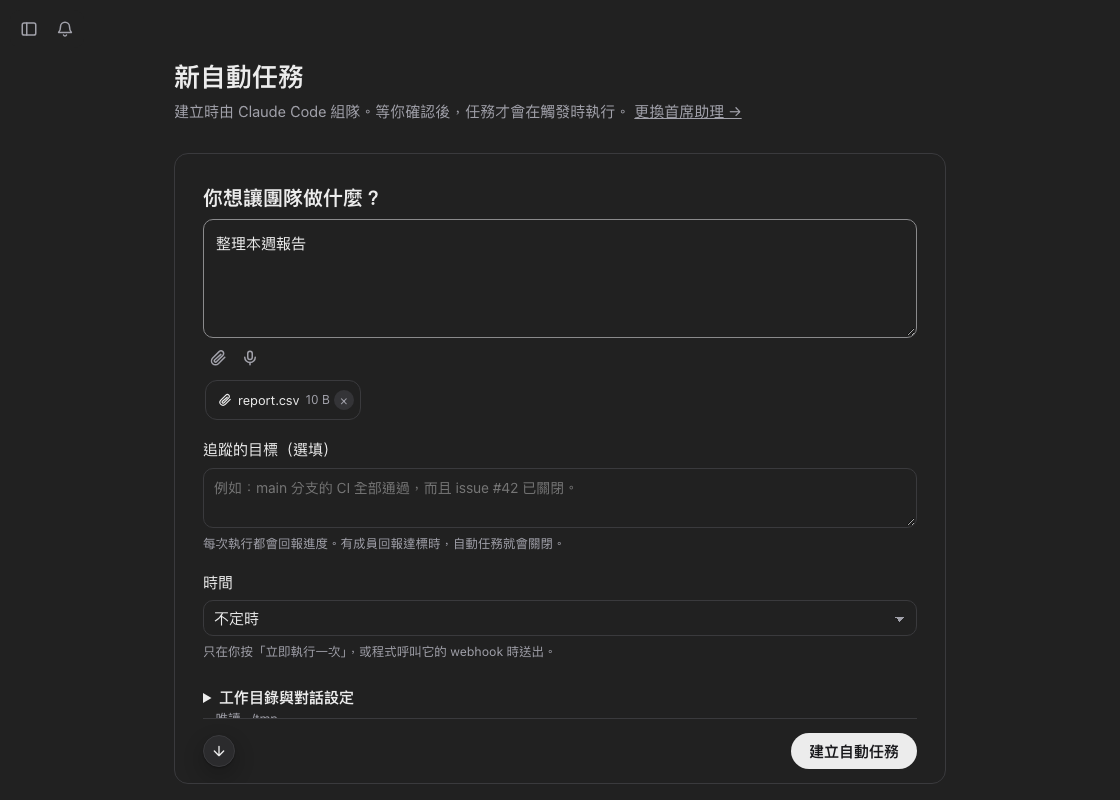
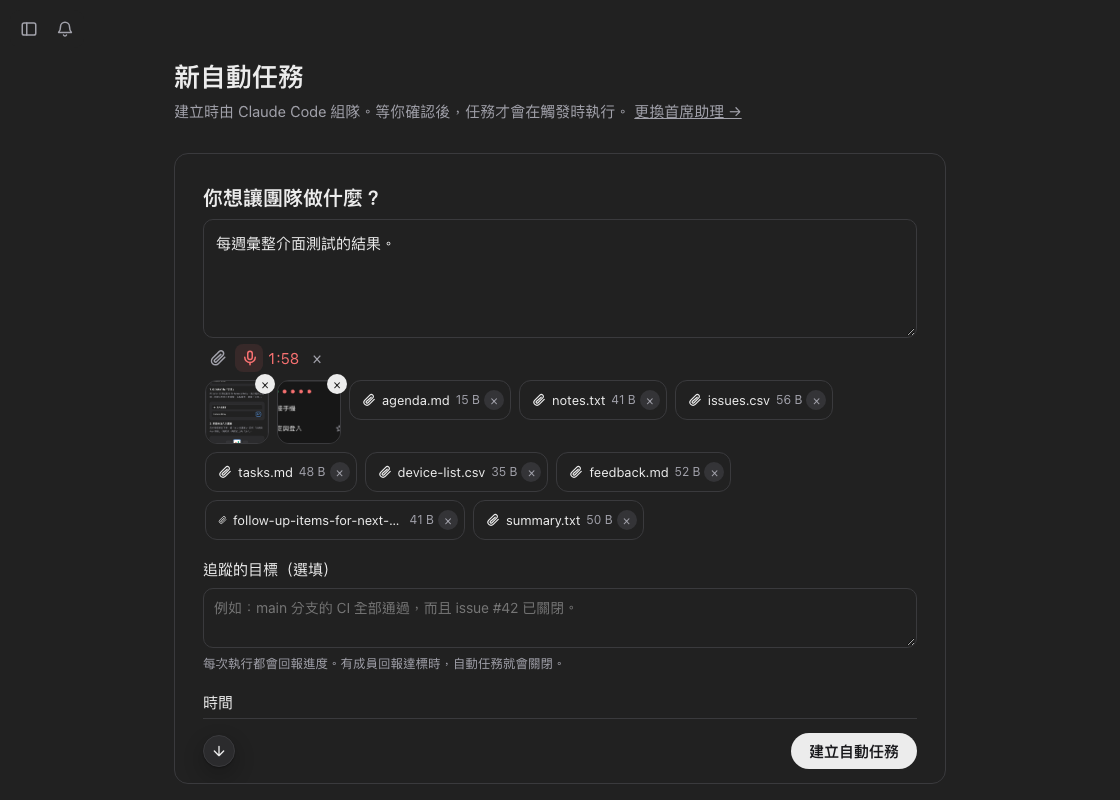
Show both creation forms with ten attachments and a nearly full recording
- Capture the desktop and phone layouts after 118 seconds of recording with ten files, including image thumbnails.
- Update the guides to describe attachment wrapping and automatic transcription at the two-minute limit.

diff --git a/docs/user-guide.md b/docs/user-guide.md
@@ -417,9 +417,9 @@ To browse AgentsView from your phone too, see [Use it from your phone](remote-ac
 
 ## 3. Start a chat — New chat and templates
 
-Click **Start a new chat** on the home page, even with the sidebar closed, or choose **New chat** in the sidebar. Type your question or use the microphone to dictate it. **Send question** becomes available once the field contains text. Selected files appear below the paperclip and microphone. While dictating, click the microphone again to transcribe or use the × beside the timer to cancel. Sending opens the chat and starts team design. Under **Workspace and chat settings**, you can change the working folders, file permission, approval policy and title. The [lead review](#lead-review) checkbox below the team confirmation choices starts checked. **Once the team is ready** shows whether the team will wait for your confirmation or answer right away. The next chat remembers that choice. **Send question** stays at the bottom of the card. The team choices and review setting scroll with the other fields. A down arrow appears when there is more below. Click it to scroll. The question, attachments, title and settings stay in this window while you visit other pages. If creation finishes while you are in Settings, **Open created chat** opens the result. If it fails, return to the draft to see the error and retry. **Change the lead agent** opens Settings, where **Return to new chat draft** takes you back. Open **Manage team templates** to inspect or edit a template.
+Click **Start a new chat** on the home page, even with the sidebar closed, or choose **New chat** in the sidebar. Type your question or use the microphone to dictate it. **Send question** becomes available once the field contains text. You can attach up to 10 files. They wrap onto new lines below the paperclip and microphone. While dictating, click the microphone again to transcribe or use the × beside the timer to cancel. At two minutes, the recording ends and transcription starts automatically. Sending opens the chat and starts team design. Under **Workspace and chat settings**, you can change the working folders, file permission, approval policy and title. The [lead review](#lead-review) checkbox below the team confirmation choices starts checked. **Once the team is ready** shows whether the team will wait for your confirmation or answer right away. The next chat remembers that choice. **Send question** stays at the bottom of the card. The team choices and review setting scroll with the other fields. A down arrow appears when there is more below. Click it to scroll. The question, attachments, title and settings stay in this window while you visit other pages. If creation finishes while you are in Settings, **Open created chat** opens the result. If it fails, return to the draft to see the error and retry. **Change the lead agent** opens Settings, where **Return to new chat draft** takes you back. Open **Manage team templates** to inspect or edit a template.
 
-![Dictating a new question on a phone with an agenda attached below the controls](media/new-chat-en.png)
+![New chat on a phone with 10 attachments below the controls and 1:58 on the recording timer](media/new-chat-en.png)
 
 You don't pick a team for the chat: the lead agent chooses one for each question (see [Auto team](#auto-team)), from the [templates](#templates) on this page, where you design teams.
 
@@ -619,7 +619,7 @@ To have the lead agent make the change, say what you want in **Ask the lead agen
 
 To start from an automation instead of a chat, click **New automation**, the button with a lightning bolt beside **New chat** in the sidebar (its text is **Automation** in English, where the whole name does not fit). Type or dictate what the team should do. Pick files with the paperclip, paste them or drag them into the field. They appear below the paperclip and microphone. Every run gets its own copy, including runs that open a new chat. Add or remove files in the chat’s **Automation** settings to change what future runs receive. Optionally add a **Goal to track**, then choose **When** it runs. Open **Webhooks and run settings** to create a webhook, start a new chat each time, or change unattended and missed-run behavior. **Workspace and chat settings** shows the working directories, permissions and optional title. The [lead review](#lead-review) checkbox is visible below the team confirmation choices. Visiting lead or connector settings keeps your draft while the app is open. If creation finishes there, **Open created automation** opens its chat and any newly created webhook. Above **Once the team is ready**, expand **Manage team templates** to edit the same templates available in New chat. Choose whether to review the team or accept it automatically, then click **Create automation**. Its chat opens for team design. The task runs when triggered. **Create automation** stays at the bottom of the card while the settings above it scroll, including team confirmation and lead review. A time that comes due while the team is being designed or waits for you is tried again for up to 30 minutes, then skipped. If the design was stopped, the automation window offers **Have the lead agent design the team**.
 
-![New automation with a dictated or typed message and an attached report](media/new-automation-en.png)
+![New automation on a phone with 10 attachments and the microphone recording at 1:58](media/new-automation-en.png)
 
 - **Message** — what to send. As usual, when you @mention members, only they answer; a name that is not on the team reaches nobody (the members the message does @mention answer, or with none, the whole team) — the window warns about it as you type, and **Team settings** warns when you rename or remove a member the message @mentions. With **New automation** there is no team yet: the lead agent names the members after the names the message @mentions (for example `@Reviewer`), and a team's card warns before you confirm it if one is missing (also for a later question's team, in a chat with an automation).
 - **When** — **No set times** (what a new automation starts with): only **Run once now** and the webhook (below) send it, so it has nothing to switch on or off and no missed times — for a task you start yourself now and then, or one a program starts. Or **Once** (a date and time), **Every day** or **Every week** (pick the days) at a time, or **Every few hours** (counted from when you set its times; changing only the message keeps the rhythm). On the creation page, choose a trigger from the **When** menu. In the chat drawer the choices share a row you can swipe on a phone. The next three times and the time zone are shown before you save; times are in the automation's time zone, and on a device in another zone you can switch it to that device's. Or **When something happens**, under **What to wait for**: **A new mail arrives** in a mail account from Settings → Tool library (a folder, the inbox by default, and optionally words the sender and the subject contain, in any case). Harness Relay checks it itself every 2 minutes, with no address or token to set up, and when the mail server can say at once that mail arrived (IMAP IDLE: Gmail, iCloud and most can), it listens and checks right then, so a mail starts it within seconds (the automation window then says the server tells it when mail arrives); the first check only notes the mail already there, and mail that arrives after it starts the automation, once for each check however many came, with their senders, subjects, dates and first lines in a block the chat shows as **The new mail** and the agents read as data (members with the Mail tools can read a mail whole). Mail that came while Harness Relay was closed is found at its first check after it opens; old mail moved into the folder (from an archive, say) does not count as new. While the automation is off, nothing is checked, and turning it on starts afresh. While the team replies, the message waits in the queue as any automation's does; when the team cannot take it at all (it waits for your answer, an earlier automation message is still queued, another chat writes in the folder), the mail waits for a later check, which sends it with what came since. **Check now** in the automation window checks at once and says what it found; while the automation is off, it only notes the mail there (to try the account), and starts no run. The other things it can wait for, checked the same way (the first check only notes what is there, and one check starts one run however many it found): **An event is about to begin**, in a calendar from Settings (with a password, or one you signed in to), a number of minutes before each event begins (each time of a recurring one on its own; all-day events, cancelled ones and those in a time zone this computer does not know are left out), optionally only those whose title has some words, the run's message listing each event's title, times, place and attendees; an event that began while the checks failed or the team could not take it (within the hour) is still sent, marked as begun. A CalDAV server that does not expand recurring events gives Harness Relay their first time only, so their later times do not start the automation. **A pull request or a failed CI run on GitHub**, in a repository (`owner/name`), through your own GitHub CLI (`gh`, signed in with `gh auth login`): a pull request opened, or a CI run that failed, timed out or could not start (optionally on one branch; a run that fails again when re-run counts too), listed by number or run, title and link. And **A file appears or changes in the working directory**, a pattern such as `reports/*.csv` (`*` within a folder, `**` across folders, `?` one character, any case; `.git` is left out, and so are package and build folders such as `node_modules` unless the pattern names them), the run's message listing each file's path, size and time, never its contents; a file is listed once it has not changed for 30 seconds, so one still being written starts it once. Files changed while the team works in the folder count as the team's own: they never start the automation again (nor does what another chat writes there meanwhile); a file a check found before the team started, or one that came while the automation waited for the team (for your answer, say), is still sent afterwards. Only the working directory it watches counts, not the conversation's other ones (unless they are in the same git repository). Files a run wrote just before Harness Relay stopped are not told apart: the first check after it starts may list them. A run that wrote in the folder between two checks (even a short one you started) makes the next check only record too, so a file of yours that arrived in the same couple of minutes counts as the team's. In a large folder, give the pattern the folder to look in (`reports/*.csv` rather than `**/*.csv`). To wait for more than one thing (a new mail from the bank, or a file in `invoices/`), click **Add another** under them (up to 5; **Remove** takes one away): any of them starts the automation. Each is checked on its own, and each that finds something sends the message with what it found, so two at once make two messages (the second waits in the queue); the same thing twice (the same mail folder, the inbox in any letter case included, the same pattern) cannot be saved. The automation window then shows how each one's checks go, a line each, and the sidebar says them all, joined with "or". When a check fails (a wrong password, a server down, gh not signed in), the automation says why, the clock in the sidebar shows it, and the checks come slower until one works.

diff --git a/docs/developer-guide.md b/docs/developer-guide.md
@@ -949,7 +949,7 @@ Current specs (each scenario in [`e2e/README.md`](../e2e/README.md)):
 - `e2e/specs/signin.spec.ts` — the sign-in page, a wrong code, signing in with a code, a one-time sign-in link (a used-up one shows its error), a link opened in a tab that shows the sign-in page already, a link's error gone after signing in with a code and being signed out, a link opened in a tab signed in already that keeps it signed in while requests sent with the old key are still on their way (their answers, "signed out", reach the page together with the sign-in's; never a sign-out), a tab showing the sign-in page following a sign-in in another tab of the browser, a link opened in another tab keeping every tab signed in while the first has requests on their way, a tab still on its first check following another tab's sign-in (its first answer out of date by then), a sign-in that gets no answer given up after 30 seconds with a message (on the page's clock), signing out in Settings; in a development build of the UI (React's StrictMode), a link opening the app on the first load (asking once whether the browser is signed in), a wrong one showing its error, the same link in a tab signed in already, and a link opened in another tab.
 - `e2e/specs/install.spec.ts` — installing a CLI from its card in Settings with the fake npm: Copilot not found, installed into its own folder (under way with the installer's output, then its version and the program as its executable, the sidebar's dot no longer red, npm given a global install into that folder), and removed (the folder gone, not installed again); Cline's install failing (npm's words and output, nothing left), tried again and cancelled; Grok's card offering its maker's bash script on macOS and Linux and its PowerShell installer on Windows.
 - `e2e/specs/sandbox-setup.spec.ts` — the dialog New chat opens while the sandboxes lack something (the server's answers the test's own): strongly recommended, Not now leaving it to Settings → Sandboxes and not asking again, an install from it with its outcome, what cannot be installed with its command and no Install (Escape closing it for the page only), nothing asked when nothing is missing, and the same in a development build (StrictMode).
-- `e2e/specs/voice.spec.ts` — voice input's install in Settings (its status from GET /api/voice with an install put in, since a real one downloads): its steps in line, their state for screen readers (the current one `aria-current`), the download's percent and its bar's fill; a failed install's stopped step. It also checks the microphone badge in the two creation forms and the chat composer, the positions of the creation forms’ file and voice buttons during use, and the release of microphone permission granted after navigation.
+- `e2e/specs/voice.spec.ts` — voice input's install in Settings (its status from GET /api/voice with an install put in, since a real one downloads): its steps in line, their state for screen readers (the current one `aria-current`), the download's percent and its bar's fill; a failed install's stopped step. It also checks the microphone badge in the two creation forms and the chat composer, the positions of the creation forms’ file and voice buttons during use, and the release of the audio track when microphone access is granted after navigation.
 - `e2e/specs/i18n.spec.ts` — the UI (the home page's tagline too) and the lead agent's card in Traditional Chinese with the prompts in English; the sign-in page and the server's own messages in Chinese. In the desktop app's window (Electron in the user agent) the page tells the app its language as it opens and at each pick (`PUT /api/desktop/lang`); another browser never does.
 - `e2e/specs/mobile.spec.ts` — a phone's screen: the sidebar from the menu, sending by touch, a conversation's pin shown without hover and pinned by a tap, the header's actions under ⋯, no sideways scrolling; at 320px and 280px, a template's editor, the team settings, a new schedule of each kind (in both languages, English also at 400px and 430px and Chinese at 250px and 360px: the selected trigger visible in the When menu, and the rows the week's days take; two things to wait for, each in its box with its Remove; a saved kind at the row's end in view when the drawer opens again) and a chat's Schedule without sideways scrolling, and the add card listing every CLI in one column; the home page's tagline smaller with each line unwrapped, and the logo closing the sidebar; scrolled up, the arrow to the end in the middle above the message box, a finger's target larger than it, and a tap taking the chat there with the keyboard left as it was (the message box's focus neither taken nor given).
 
